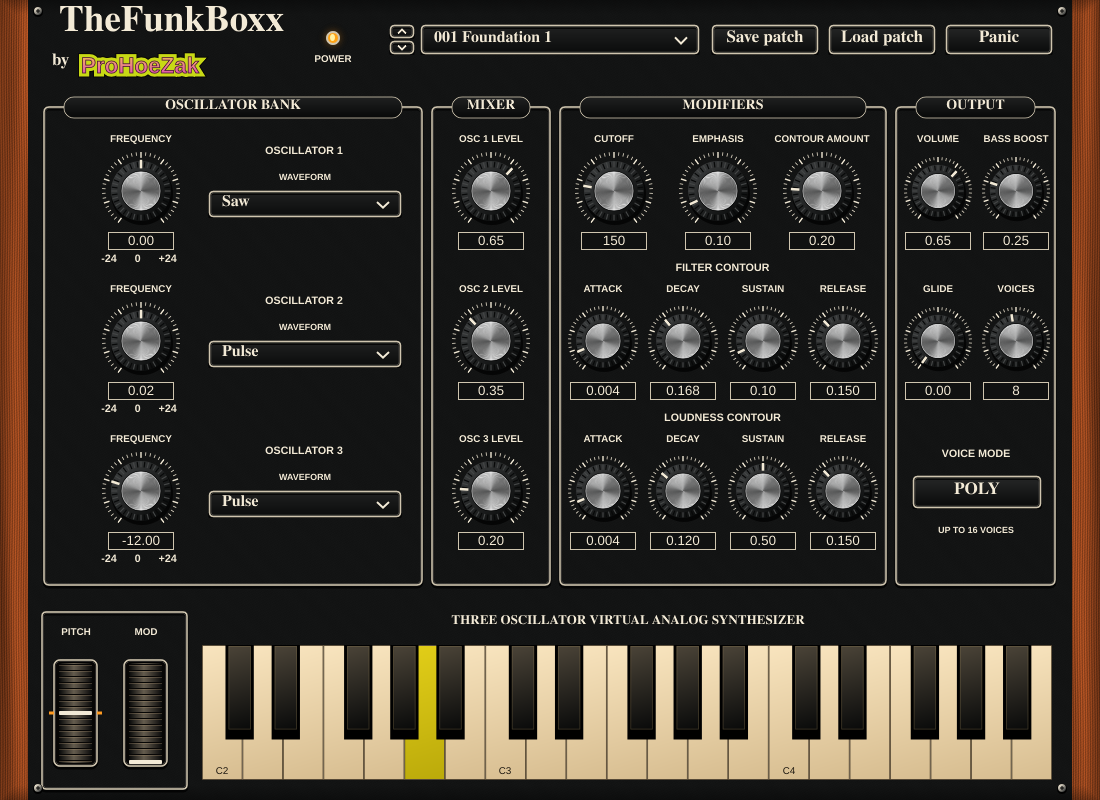
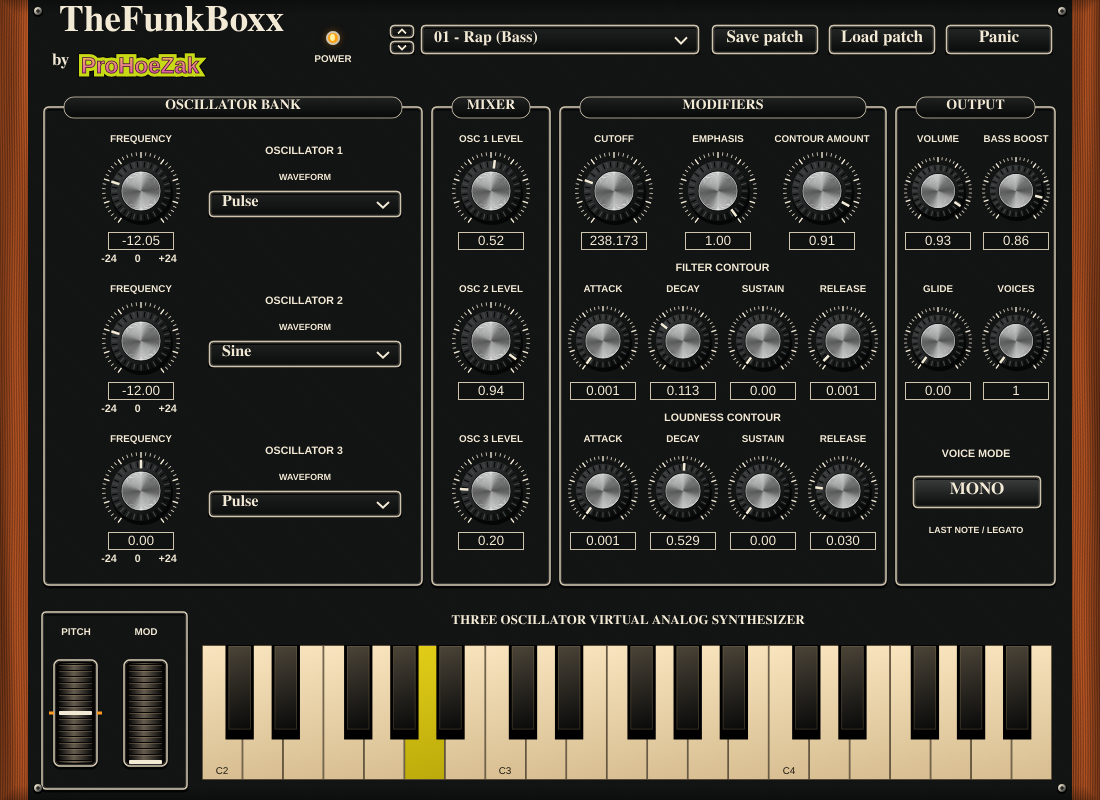
[notarize] Verify legacy state migration within parameter precision and preview signature default

diff --git a/tests/PluginTests.cpp b/tests/PluginTests.cpp
@@ -87,7 +87,9 @@ int main(int argc, char **argv) {
     p.setCurrentProgram((current + 1) % 125);
     p.setStateInformation(legacy.getData(), int(legacy.getSize()));
     check(p.getCurrentProgram() == current, "legacy project restores the same named program");
-    check(p.state.getRawParameterValue("cutoff")->load() == expectedCutoff,
+    // APVTS normalises/restores floats; allow its normal rounding precision.
+    check(std::abs(p.state.getRawParameterValue("cutoff")->load() - expectedCutoff)
+              <= std::max(1e-5f, std::abs(expectedCutoff) * 1e-6f),
           "legacy project restores its saved sound parameters");
     p.getStateInformation(saved);
     p.setCurrentProgram((current + 1) % 125);
